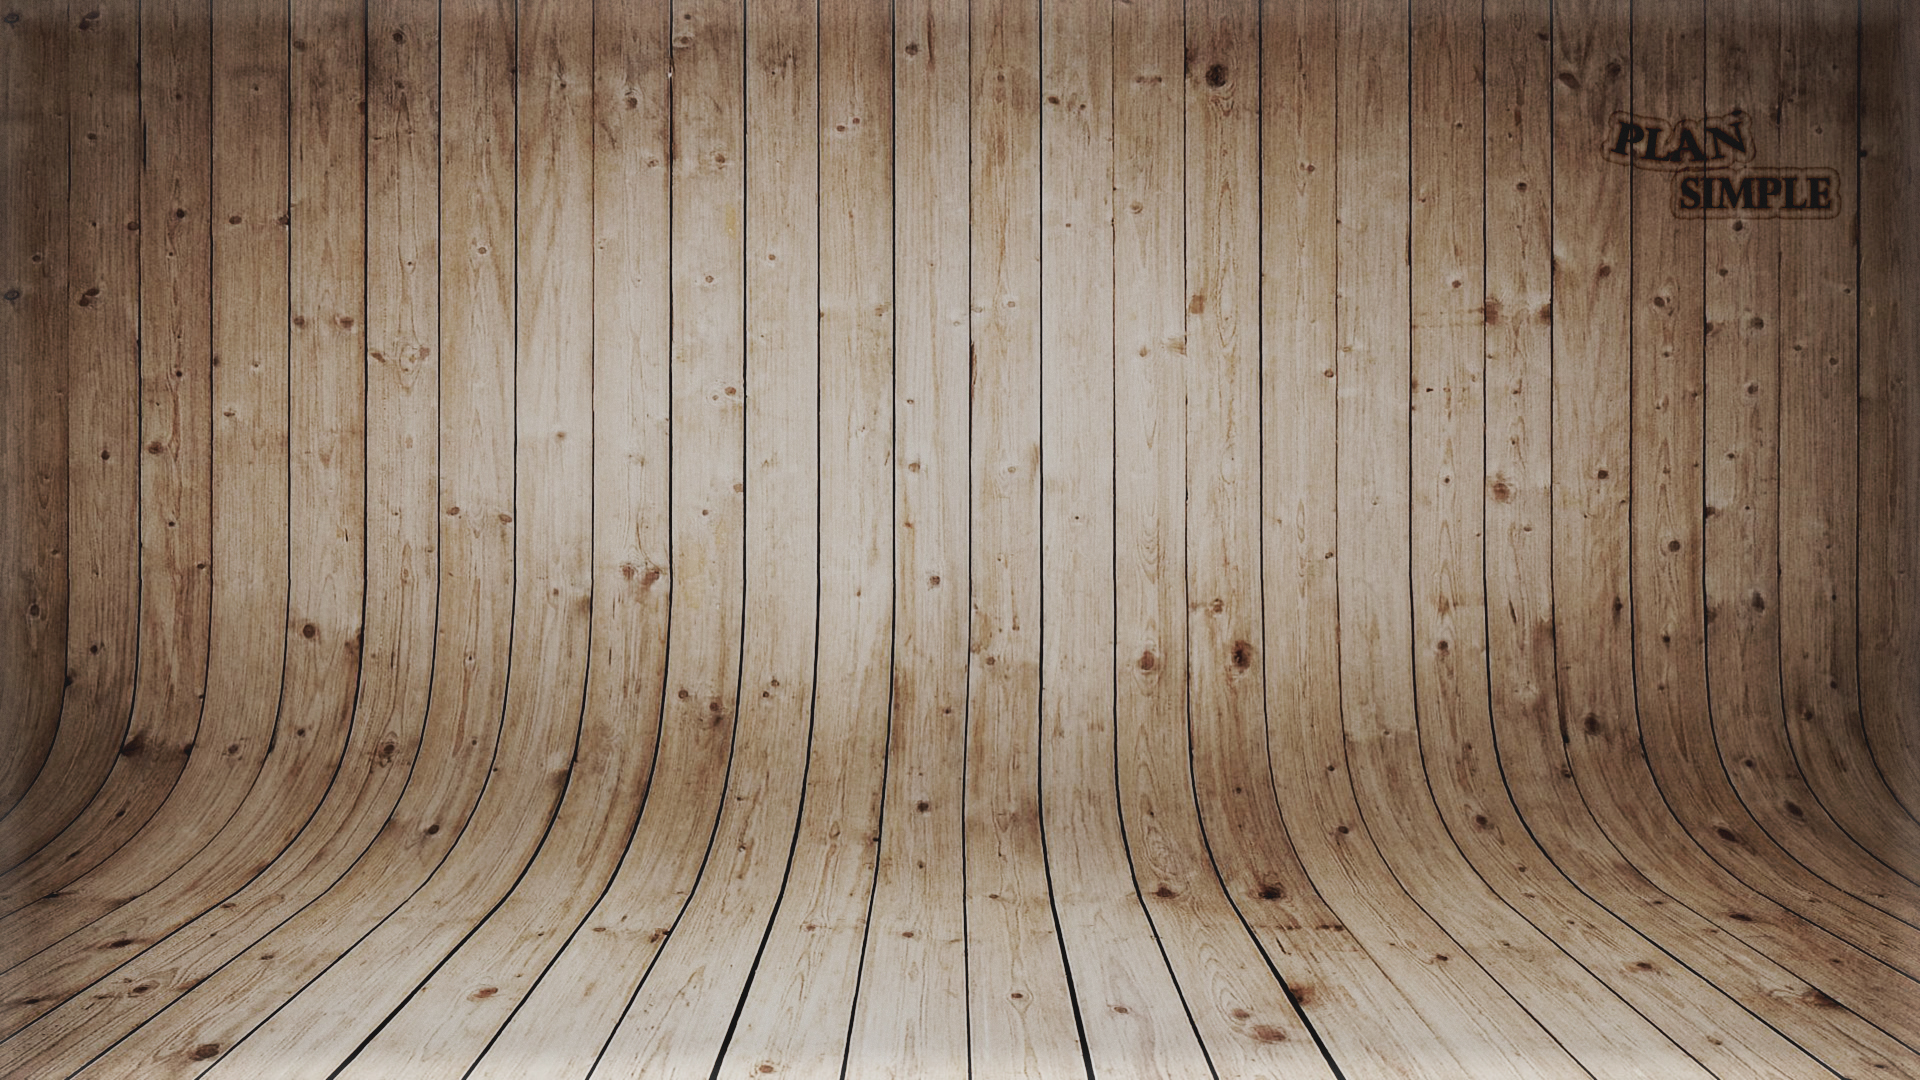
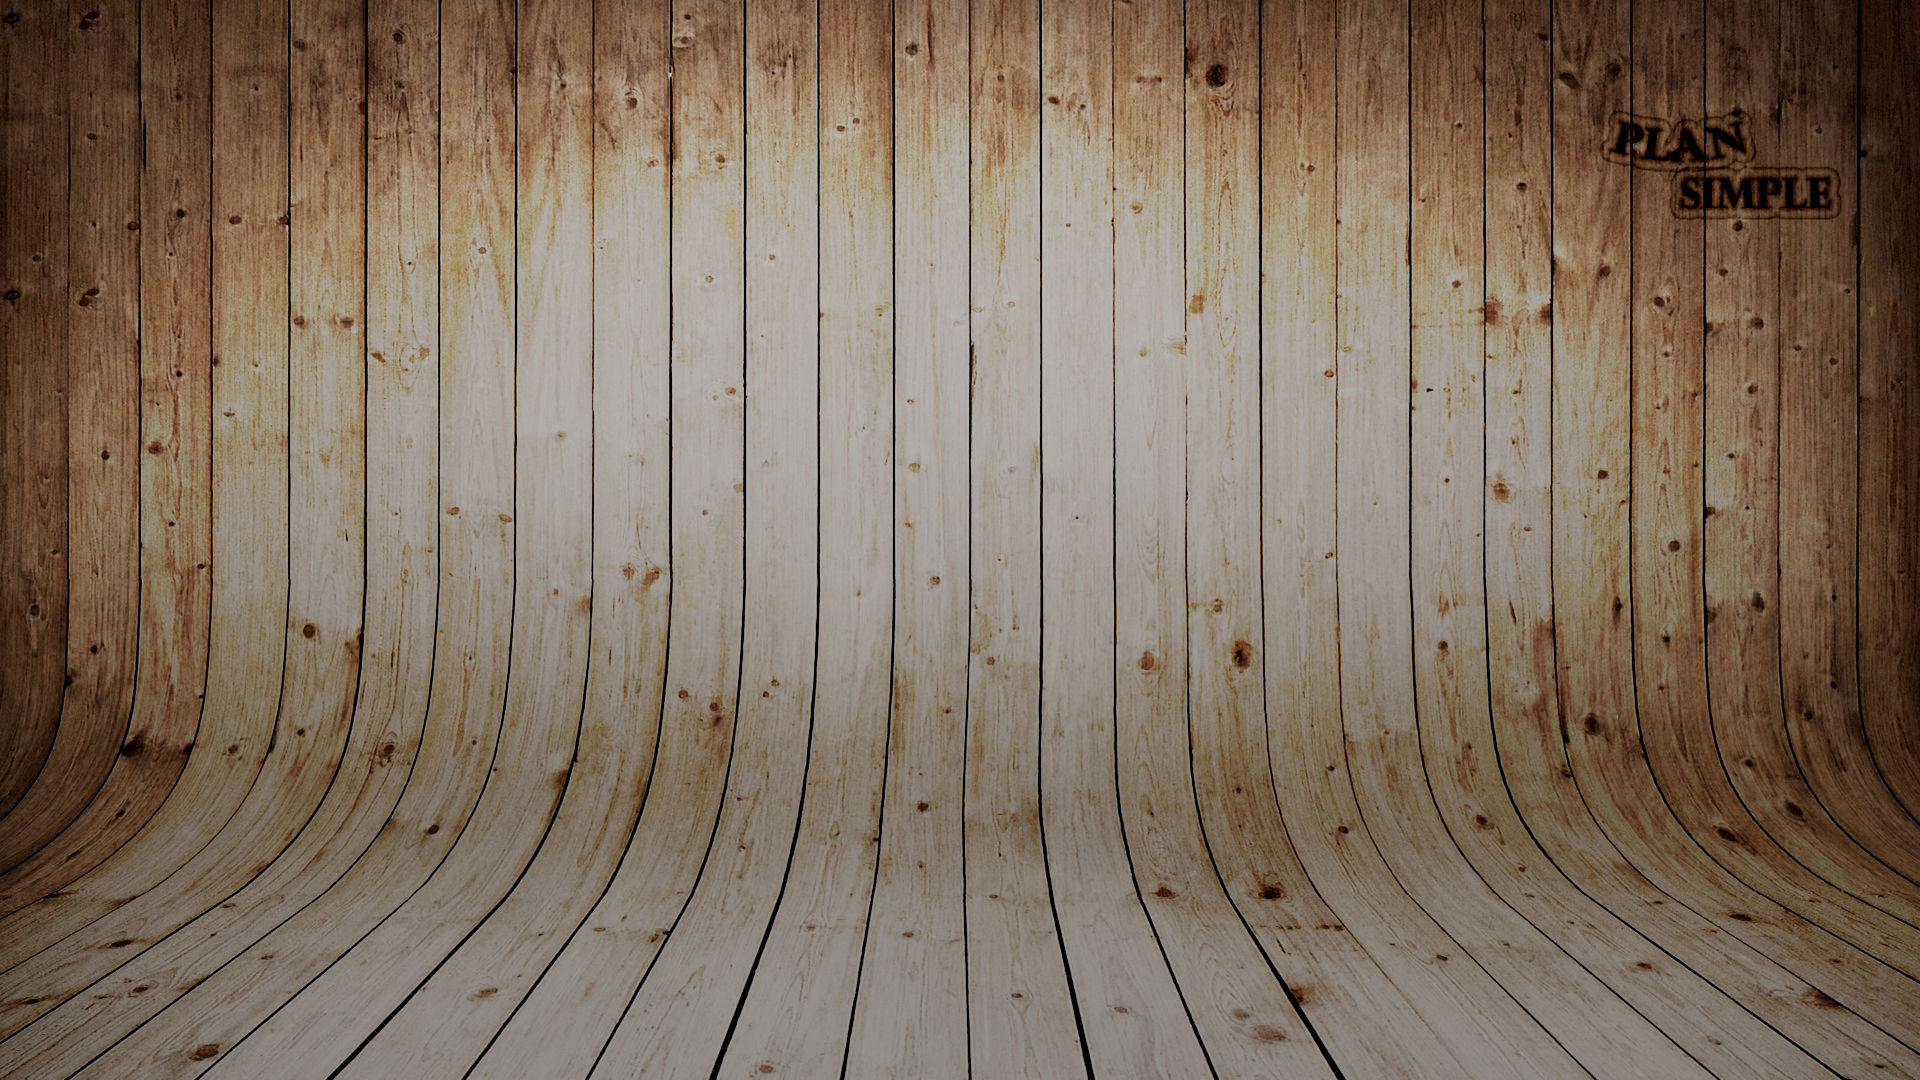
update

Changed region(s): [[0.0, 0.0, 1.0, 1.0]]

diff --git a/src/html/groups.component.html b/src/html/groups.component.html
@@ -1,6 +1,6 @@
 <div ng-if="$ctrl.isLoggedIn">
 	<div class="animate-if col-xlg-12 lg md sm xsm flex-row-start calendarBox">
-		<div style="margin-left: 40%; margin-top: 5em; margin-bottom: 0" class="search-animate-class col-xlg-12 lg md sm xsm">
+		<div style="margin-right: 34%; margin-top: 4em; margin-bottom: 0" class="search-animate-class col-xlg-12 lg md sm xsm">
 			<md-input-container>
 				<label>Search</label>
 				<input ng-model="searchTerm" type="text" id="searchBox" class="searchBox" />

diff --git a/src/css/styles.css b/src/css/styles.css
@@ -51,7 +51,7 @@
 .background{
     position: absolute;
 
-    background: transparent url('../resources/background/warped_wood_edited.JPG') right no-repeat;
+    background: transparent url('../resources/background/warped_wood_edited_dark.JPG') right no-repeat;
     background-size: cover;
     /*padding-bottom: 50vh;*/
     min-height: 100vh;
